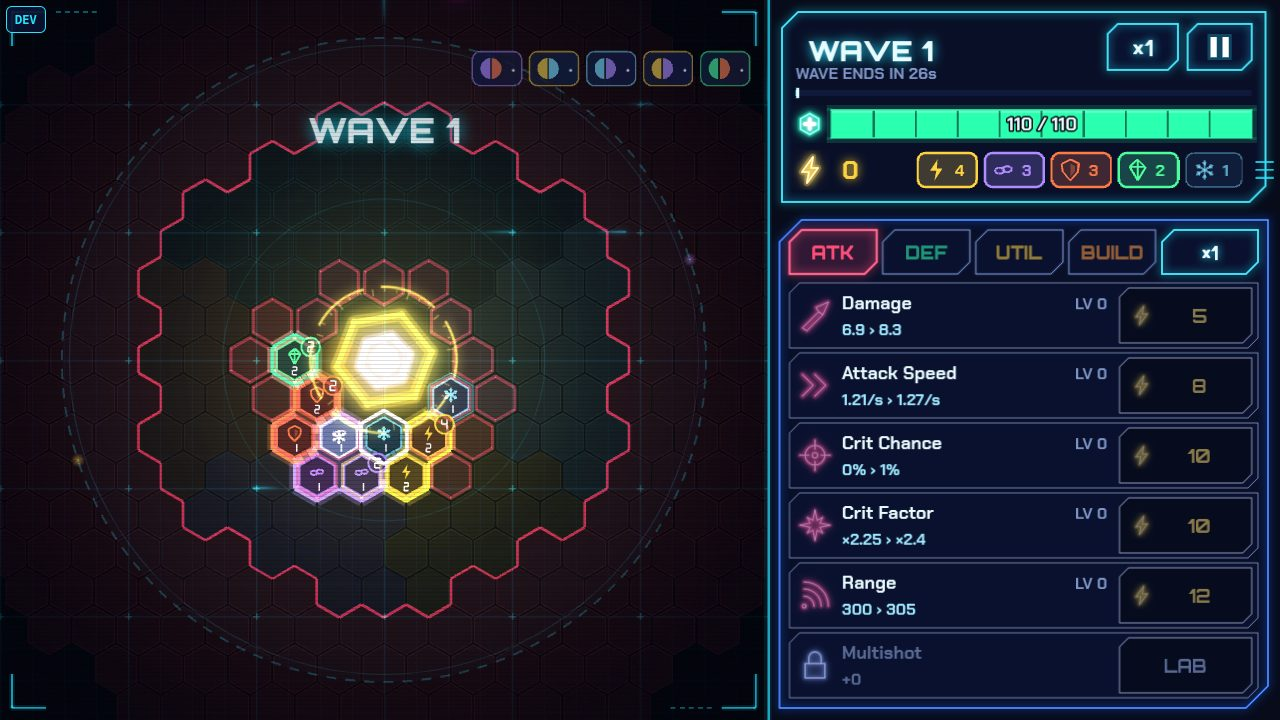
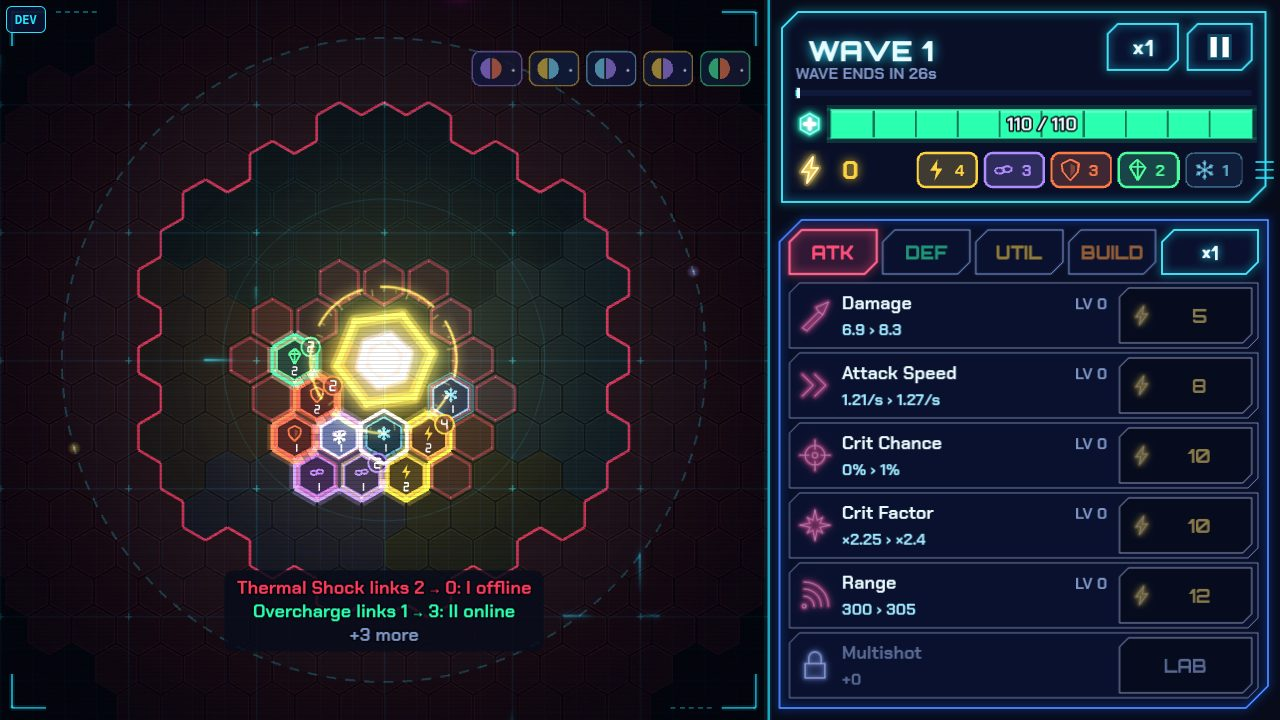
Field drag: preview the change before the drop
While a module is dragged over a lit hex it snaps into it and a readout over the arena's lower part lists what the drop would change (set counts, links, fusion tiers; green up, red down), as in the editor.

diff --git a/src/render/scenes/BattleScene.ts b/src/render/scenes/BattleScene.ts
@@ -13,10 +13,10 @@ import { buildRunOptions } from '../../meta/runOptions';
 import { enterPick } from '../../sim/perks';
 import { fusionKeys, type StructureKind, TAGS, type Tag } from '../../sim/perkData';
 import { showToast } from '../../portal/toast';
-import { clusterCounts, freeSlots, fusionLinkCounts, fusionLinks, moduleCluster, needsPlacement, sectorTags } from '../../sim/crystal';
+import { clusterCounts, freeSlots, fusionLinkCounts, fusionLinks, moduleCluster, movePreview, needsPlacement, sectorTags } from '../../sim/crystal';
 import { arenaRadius } from '../../sim/territory';
 import { formatNum, formatPrice } from '../../ui/format';
-import { CrystalEditor, moveTargets } from '../../ui/CrystalEditor';
+import { CrystalEditor, diffLines, moveTargets } from '../../ui/CrystalEditor';
 import { GenomeStrip } from '../../ui/GenomeStrip';
 import { CrystalView } from '../CrystalView';
 import { StructureView } from '../StructureView';
@@ -46,7 +46,7 @@ import { services } from '../../services';
 import { battleData, type DevFlags, readFlags, stressTuning } from '../devFlags';
 import { Effects } from '../effects';
 import { FixedLoop } from '../loop';
-import { CRIMSON, ENERGY, MARK, MARK_CSS, RARITY_CSS, TAG_COLOR, TAG_CSS, TEXT, TEXT_RED } from '../palette';
+import { BG, CRIMSON, ENERGY, MARK, MARK_CSS, RARITY_CSS, TAG_COLOR, TAG_CSS, TEXT, TEXT_DIM, TEXT_RED } from '../palette';
 import { SetTooltip } from '../../ui/SetTooltip';
 import { fusionLevel, fusionLines, fusionReachedLines, fusionTags, latticeLine, totalLines } from '../../ui/perkText';
 import { RunSession } from '../RunSession';
@@ -93,6 +93,10 @@ export class BattleScene extends Phaser.Scene {
   private pausedBeforeEditor = false;
   /** A press on a crystal module in the battle view; past a few px it becomes a drag that moves the module. */
   private fieldDrag: { i: number; x: number; y: number; moved: boolean; pausedBefore: boolean; tiers: { sets: Record<Tag, number>; fusions: Record<string, number> } | null } | null = null;
+  /** Field drag readout: what dropping on the hovered hex would change (sets, links, fusion tiers). */
+  private dragBg!: Phaser.GameObjects.Graphics;
+  private dragLines: Phaser.GameObjects.Text[] = [];
+  private dragHex = '';
   private tiersBeforeEditor: { sets: Record<Tag, number>; fusions: Record<string, number> } | null = null;
   crystalBtn!: Button;
   /** The lifecycle 'perkPick' hold is on (the pick or its placement step is open). */
@@ -241,6 +245,8 @@ export class BattleScene extends Phaser.Scene {
       this.fieldDown(p.worldX, p.worldY);
       this.hoverModule(p.worldX, p.worldY, true);
     });
+    this.dragBg = this.add.graphics().setDepth(DEPTH.overlay - 2).setVisible(false);
+    this.dragLines = [0, 1, 2].map(() => text(this, 0, 0, '', this.L.minFont + 2, { weight: '700', stroke: true }).setOrigin(0.5, 0).setDepth(DEPTH.overlay - 1).setVisible(false));
     // Drag a module straight on the field (no editor): drop on an outlined hex moves or swaps it.
     this.input.on('pointerup', (p: Phaser.Input.Pointer) => this.fieldUp(p.worldX, p.worldY));
     this.input.on('pointerupoutside', (p: Phaser.Input.Pointer) => this.fieldUp(p.worldX, p.worldY));
@@ -681,8 +687,47 @@ export class BattleScene extends Phaser.Scene {
       this.life.hold('fieldDrag', true);
       if (this.modTipAt >= 0) this.hoverModule(-1e6, -1e6, true);
       this.crystal.edit = { selected: d.i, targets: moveTargets(w, this.gd, d.i), ghost: null };
+      this.dragHex = '';
     }
-    if (this.crystal.edit) this.crystal.edit.ghost = [x, y];
+    const e = this.crystal.edit;
+    if (!e) return;
+    const w = this.session.world;
+    const m = w.crystal[d.i]!;
+    const [q, r] = this.crystal.hexAt(x, y);
+    const target = e.targets.some((t) => t.q === q && t.r === r);
+    // Over a valid hex the ghost snaps into it, so the module shows where it would sit.
+    e.ghost = target ? this.crystal.hexScreen(q, r) : [x, y];
+    const key = `${q},${r}`;
+    if (key === this.dragHex) return;
+    this.dragHex = key;
+    const lines = target
+      ? diffLines(this.gd, movePreview(w, this.gd, [m.q, m.r], [q, r]))
+      : [{ text: q === m.q && r === m.r ? 'Release to keep it here' : 'Drop on a lit hex', color: TEXT_DIM }];
+    this.showDragLines(lines);
+  }
+
+  /** The drag readout over the arena's lower part (the finger stays on the crystal). */
+  private showDragLines(lines: { text: string; color: string }[]): void {
+    const a = this.L.arena;
+    const fs = this.L.minFont + 2;
+    const lh = fs * 1.3;
+    const y0 = a.y + a.h * 0.8;
+    let wd = 0;
+    this.dragLines.forEach((t, i) => {
+      const l = lines[i];
+      t.setVisible(!!l);
+      if (!l) return;
+      t.setText(l.text).setColor(l.color).setPosition(a.x + a.w / 2, y0 + i * lh);
+      wd = Math.max(wd, t.width);
+    });
+    const pad = fs * 0.6;
+    const h = lines.length * lh;
+    this.dragBg.clear().fillStyle(BG, 0.82).fillRoundedRect(a.x + a.w / 2 - wd / 2 - pad, y0 - pad / 2, wd + pad * 2, h + pad, 10).setVisible(true);
+  }
+
+  private hideDragLines(): void {
+    this.dragBg.clear().setVisible(false);
+    for (const t of this.dragLines) t.setVisible(false);
   }
 
   private fieldUp(x: number, y: number): void {
@@ -691,6 +736,7 @@ export class BattleScene extends Phaser.Scene {
     if (!d?.moved) return;
     const e = this.crystal.edit;
     this.crystal.edit = null;
+    this.hideDragLines();
     const [q, r] = this.crystal.hexAt(x, y);
     const m = this.session.world.crystal[d.i];
     if (m && e?.targets.some((t) => t.q === q && t.r === r)) this.command({ type: 'moveModule', from: [m.q, m.r], to: [q, r] });
@@ -700,9 +746,9 @@ export class BattleScene extends Phaser.Scene {
   }
 
   /** Field drag state, for the UI smoke. */
-  fieldDragState(): { i: number; moved: boolean; targets: number } | null {
+  fieldDragState(): { i: number; moved: boolean; targets: number; lines: string[] } | null {
     const d = this.fieldDrag;
-    return d ? { i: d.i, moved: d.moved, targets: this.crystal.edit?.targets.length ?? 0 } : null;
+    return d ? { i: d.i, moved: d.moved, targets: this.crystal.edit?.targets.length ?? 0, lines: this.dragLines.filter((t) => t.visible).map((t) => t.text) } : null;
   }
 
   openProtocols(): void {
